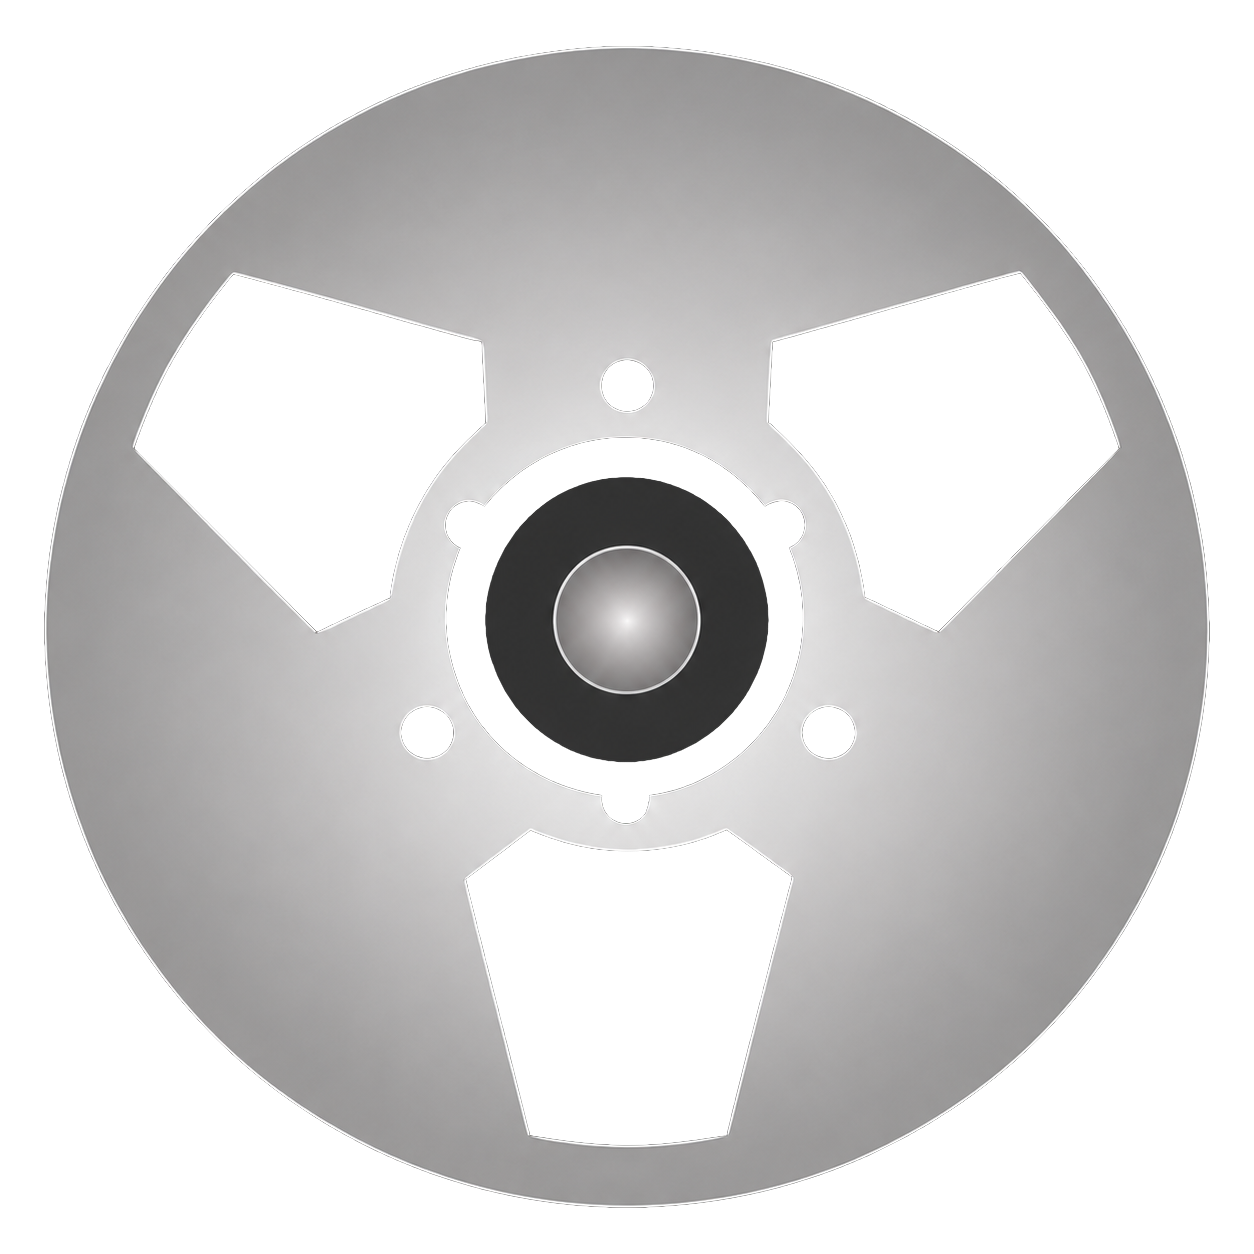
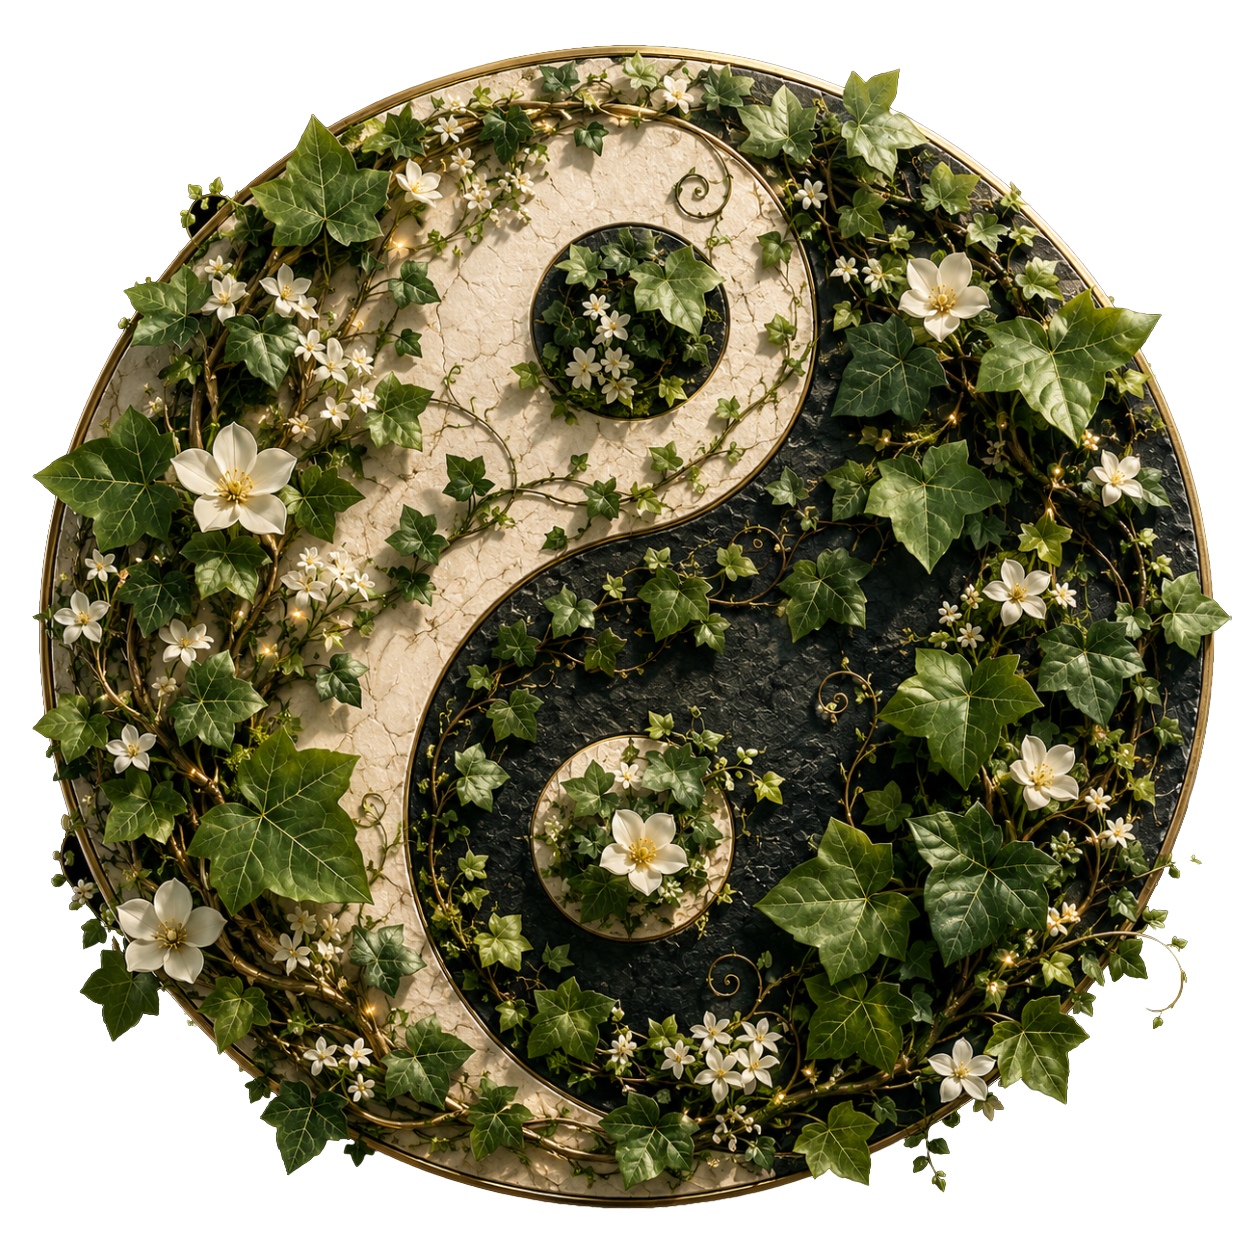
Half thought themes ... one more iteration

diff --git a/app/KochiApp/Views/SettingsView.swift b/app/KochiApp/Views/SettingsView.swift
@@ -22,7 +22,7 @@ struct SettingsView: View {
                             .foregroundColor(KColor.inkSoft)
                         Spacer()
                         Button(action: { isPresented = false }) {
-                            Text("Done")
+                            Text("done")
                                 .font(KFont.zilla(12.5, .bold))
                                 .padding(.horizontal, 16)
                                 .padding(.vertical, 7)
@@ -127,7 +127,7 @@ struct TabButton: View {
             VStack(spacing: 4) {
                 Image(systemName: icon)
                     .font(.system(size: 17, weight: .medium))
-                Text(title.uppercased())
+                Text(title.lowercased())
                     .font(KFont.mono(8.5))
                     .tracking(0.5)
                     .lineLimit(1)
@@ -540,13 +540,13 @@ struct GoalsTab: View {
                 HStack(spacing: 8) {
                     if isParsing {
                         ProgressView().controlSize(.small)
-                        Text("PARSING\u{2026}")
+                        Text("parsing\u{2026}")
                     } else if dictation.isListening {
                         Image(systemName: "stop.fill")
-                        Text("LISTENING\u{2026} TAP TO STOP")
+                        Text("listening\u{2026} tap to stop")
                     } else {
                         Image(systemName: "mic.fill")
-                        Text("SPEAK NEW GOALS")
+                        Text("speak new goals")
                     }
                 }
                 .font(KFont.zilla(12.5, .bold))
@@ -660,7 +660,7 @@ struct GoalSlotRow: View {
                     )
 
                 Button(action: commit) {
-                    Text("Save")
+                    Text("save")
                         .font(KFont.zilla(12.5, .bold))
                         .padding(.horizontal, 14)
                         .padding(.vertical, 7)
@@ -677,7 +677,7 @@ struct GoalSlotRow: View {
                     editText = text
                     isEditing = true
                 }) {
-                    Text("Edit")
+                    Text("edit")
                         .font(KFont.zilla(12.5, .bold))
                         .padding(.horizontal, 14)
                         .padding(.vertical, 7)
@@ -764,46 +764,87 @@ struct AboutTab: View {
     }
 
     private var themesCard: some View {
-        VStack(alignment: .leading, spacing: 10) {
+        VStack(alignment: .leading, spacing: 11) {
             SlabLabel("Themes") { EmptyView() }
-            Menu {
+            // Inline swatch row: every theme previews its own signature key
+            // gradient, so you pick by color instead of reading a dropdown.
+            HStack(alignment: .top, spacing: 8) {
                 ForEach(themeStore.available) { t in
-                    Button { themeStore.select(t.id) } label: {
-                        if t.id == themeStore.current.id {
-                            Label(t.displayName, systemImage: "checkmark")
-                        } else {
-                            Text(t.displayName)
-                        }
-                    }
+                    ThemeSwatch(theme: t,
+                                isSelected: t.id == themeStore.current.id,
+                                onTap: { themeStore.select(t.id) })
                 }
-            } label: {
-                HStack(spacing: 8) {
-                    Text(themeStore.current.displayName)
-                        .font(KFont.sans(13, .medium))
-                        .foregroundColor(KColor.ink)
-                    Spacer(minLength: 6)
-                    Image(systemName: "chevron.up.chevron.down")
-                        .font(.system(size: 11, weight: .semibold))
-                        .foregroundColor(KColor.muted)
-                }
-                .padding(.horizontal, 12)
-                .padding(.vertical, 10)
-                .frame(maxWidth: .infinity)
-                .background(
-                    RoundedRectangle(cornerRadius: 10, style: .continuous)
-                        .fill(KColor.paper)
-                        .overlay(RoundedRectangle(cornerRadius: 10, style: .continuous)
-                            .strokeBorder(KColor.line, lineWidth: 1))
-                )
-                .contentShape(RoundedRectangle(cornerRadius: 10, style: .continuous))
             }
-            .menuStyle(.borderlessButton)
-            .menuIndicator(.hidden)
-            .buttonStyle(.plain)
         }
         .frame(maxWidth: .infinity, alignment: .leading)
         .kCard()
         .padding(.horizontal)
+    }
+}
+
+// MARK: - Theme Swatch (Themes picker)
+/// One selectable theme chip — a glossy key-gradient preview with the theme's
+/// name beneath. The active theme gets an ink ring + checkmark badge.
+private struct ThemeSwatch: View {
+    let theme: Theme
+    let isSelected: Bool
+    let onTap: () -> Void
+
+    private let shape = RoundedRectangle(cornerRadius: 11, style: .continuous)
+
+    var body: some View {
+        Button(action: onTap) {
+            VStack(spacing: 6) {
+                swatchFill
+                    .frame(maxWidth: .infinity)
+                    .frame(height: 54)
+                    .clipShape(shape)
+                    // Glossy bevel like the device keys.
+                    .overlay(
+                        shape.strokeBorder(
+                            LinearGradient(colors: [.white.opacity(0.55), .white.opacity(0.05), .black.opacity(0.20)],
+                                           startPoint: .top, endPoint: .bottom),
+                            lineWidth: 1)
+                    )
+                    // Selection ring.
+                    .overlay(shape.strokeBorder(KColor.ink, lineWidth: isSelected ? 2.5 : 0))
+                    .overlay(alignment: .topTrailing) {
+                        if isSelected {
+                            Image(systemName: "checkmark.circle.fill")
+                                .font(.system(size: 14, weight: .bold))
+                                .symbolRenderingMode(.palette)
+                                .foregroundStyle(.white, theme.palette.buttonLo)
+                                .padding(3)
+                        }
+                    }
+                    .shadow(color: .black.opacity(isSelected ? 0.22 : 0.10),
+                            radius: isSelected ? 4 : 2, x: 0, y: isSelected ? 2 : 1)
+
+                Text(theme.displayName.lowercased())
+                    .font(KFont.mono(8.5))
+                    .tracking(0.4)
+                    .lineLimit(1)
+                    .minimumScaleFactor(0.7)
+                    .foregroundColor(isSelected ? KColor.ink : KColor.muted)
+            }
+            .frame(maxWidth: .infinity)
+            .contentShape(Rectangle())
+        }
+        .buttonStyle(.plain)
+        .animation(.easeOut(duration: 0.15), value: isSelected)
+    }
+
+    /// The chip's face: the theme's `theme.png` portrait when present, otherwise
+    /// the theme's signature key gradient.
+    @ViewBuilder private var swatchFill: some View {
+        if let url = theme.swatchImageURL, let nsImage = NSImage(contentsOf: url) {
+            Image(nsImage: nsImage)
+                .resizable()
+                .scaledToFill()
+        } else {
+            LinearGradient(colors: [theme.palette.buttonHi, theme.palette.buttonLo],
+                           startPoint: .top, endPoint: .bottom)
+        }
     }
 }
 
@@ -816,16 +857,19 @@ struct TabHeader: View {
     var body: some View {
         VStack(alignment: .leading, spacing: 4) {
             HStack(spacing: 9) {
+                // Title + its icon sit directly on the themed window background,
+                // so they use the theme's on-background ink (white on BRICKS/HERO,
+                // dark on the light themes) instead of a fixed orange/ink.
                 Image(systemName: icon)
                     .font(.system(size: 20, weight: .semibold))
-                    .foregroundColor(KColor.orange)
+                    .foregroundColor(KColor.onBg)
                 Text(title)
                     .font(KFont.zilla(22, .bold))
-                    .foregroundColor(KColor.ink)
+                    .foregroundColor(KColor.onBg)
             }
             Text(subtitle)
                 .font(KFont.mono(11))
-                .foregroundColor(KColor.muted)
+                .foregroundColor(KColor.onBgFaint)
         }
         .frame(maxWidth: .infinity, alignment: .leading)
         .padding(.horizontal)
@@ -936,7 +980,7 @@ struct MeetingDetailView: View {
                     HStack(spacing: 4) {
                         Image(systemName: "chevron.left")
                             .font(.system(size: 11, weight: .bold))
-                        Text("Back")
+                        Text("back")
                             .font(KFont.zilla(12.5, .bold))
                     }
                     .padding(.horizontal, 12)
@@ -954,7 +998,7 @@ struct MeetingDetailView: View {
                         HStack(spacing: 4) {
                             Image(systemName: "square.and.arrow.up")
                                 .font(.system(size: 11, weight: .bold))
-                            Text("Share")
+                            Text("share")
                                 .font(KFont.zilla(12.5, .bold))
                         }
                         .padding(.horizontal, 12)
@@ -1896,7 +1940,7 @@ struct AITab: View {
 
             HStack(spacing: 8) {
                 Button(action: saveKey) {
-                    Text("Save")
+                    Text("save")
                         .font(KFont.zilla(12.5, .bold))
                         .padding(.horizontal, 16)
                         .padding(.vertical, 7)
@@ -1907,7 +1951,7 @@ struct AITab: View {
 
                 if cloudAnalysisManager.hasKey {
                     Button(action: { cloudAnalysisManager.removeKey(); keyInput = "" }) {
-                        Text("Remove key")
+                        Text("remove key")
                             .font(KFont.zilla(12.5, .bold))
                             .padding(.horizontal, 16)
                             .padding(.vertical, 7)

diff --git a/app/KochiApp/ContentView.swift b/app/KochiApp/ContentView.swift
@@ -43,12 +43,20 @@ struct ContentView: View {
         }
         // Halftone "window" background — attached as a background so it doesn't
         // inflate the content's intrinsic height (the panel sizes to the layout).
+        // The GeometryReader hands the image a *definite* frame (the card's exact
+        // size) so scaledToFill always covers edge-to-edge. An indefinite
+        // maxWidth/maxHeight:.infinity frame only reliably fills when the image is
+        // far taller than the card; a near-square theme image (e.g. BRICKS, whose
+        // ratio nearly matches the card) could otherwise under-fill and leak the
+        // window's white base out the bottom.
         .background(
-            ThemeImage("BackgroundImage")
-                .scaledToFill()
-                .frame(maxWidth: .infinity, maxHeight: .infinity)
-                .clipped()
-                .ignoresSafeArea()
+            GeometryReader { geo in
+                ThemeImage("BackgroundImage")
+                    .scaledToFill()
+                    .frame(width: geo.size.width, height: geo.size.height)
+                    .clipped()
+            }
+            .ignoresSafeArea()
         )
         // Settings sheet as an overlay so it's clamped to the card's bounds
         // rather than expanding the panel.

diff --git a/app/KochiApp/Managers/Theme.swift b/app/KochiApp/Managers/Theme.swift
@@ -146,6 +146,14 @@ struct Theme: Identifiable {
     /// Subdirectory (relative to bundle resources) where this theme's videos live.
     var videoSubdirectory: String { "Themes/\(id)/videos" }
 
+    /// Optional `images/theme.png` used as this theme's chip in the Themes picker.
+    /// Resolved by convention (it need not be listed in theme.json's `images`);
+    /// nil when absent, so the picker falls back to the theme's key gradient.
+    var swatchImageURL: URL? {
+        let url = folderURL.appendingPathComponent("images/theme.png")
+        return FileManager.default.fileExists(atPath: url.path) ? url : nil
+    }
+
     /// Load a theme from a folder containing theme.json. Returns nil if the json
     /// is missing/unreadable or any color token is absent (surfaces authoring
     /// errors instead of shipping a half-themed look).

diff --git a/app/KochiApp/Views/GoalsManagementView.swift b/app/KochiApp/Views/GoalsManagementView.swift
@@ -65,7 +65,7 @@ struct GoalsManagementView: View {
                             }) {
                                 HStack {
                                     Image(systemName: "arrow.clockwise")
-                                    Text("Reset All Completions")
+                                    Text("reset all completions")
                                 }
                                 .font(.headline)
                                 .foregroundColor(.white)
@@ -84,7 +84,7 @@ struct GoalsManagementView: View {
             .inlineNavigationTitle()
             .toolbar {
                 ToolbarItem(placement: .primaryAction) {
-                    Button("Done") {
+                    Button("done") {
                         isPresented = false
                     }
                     .foregroundColor(themeManager.accentColor)